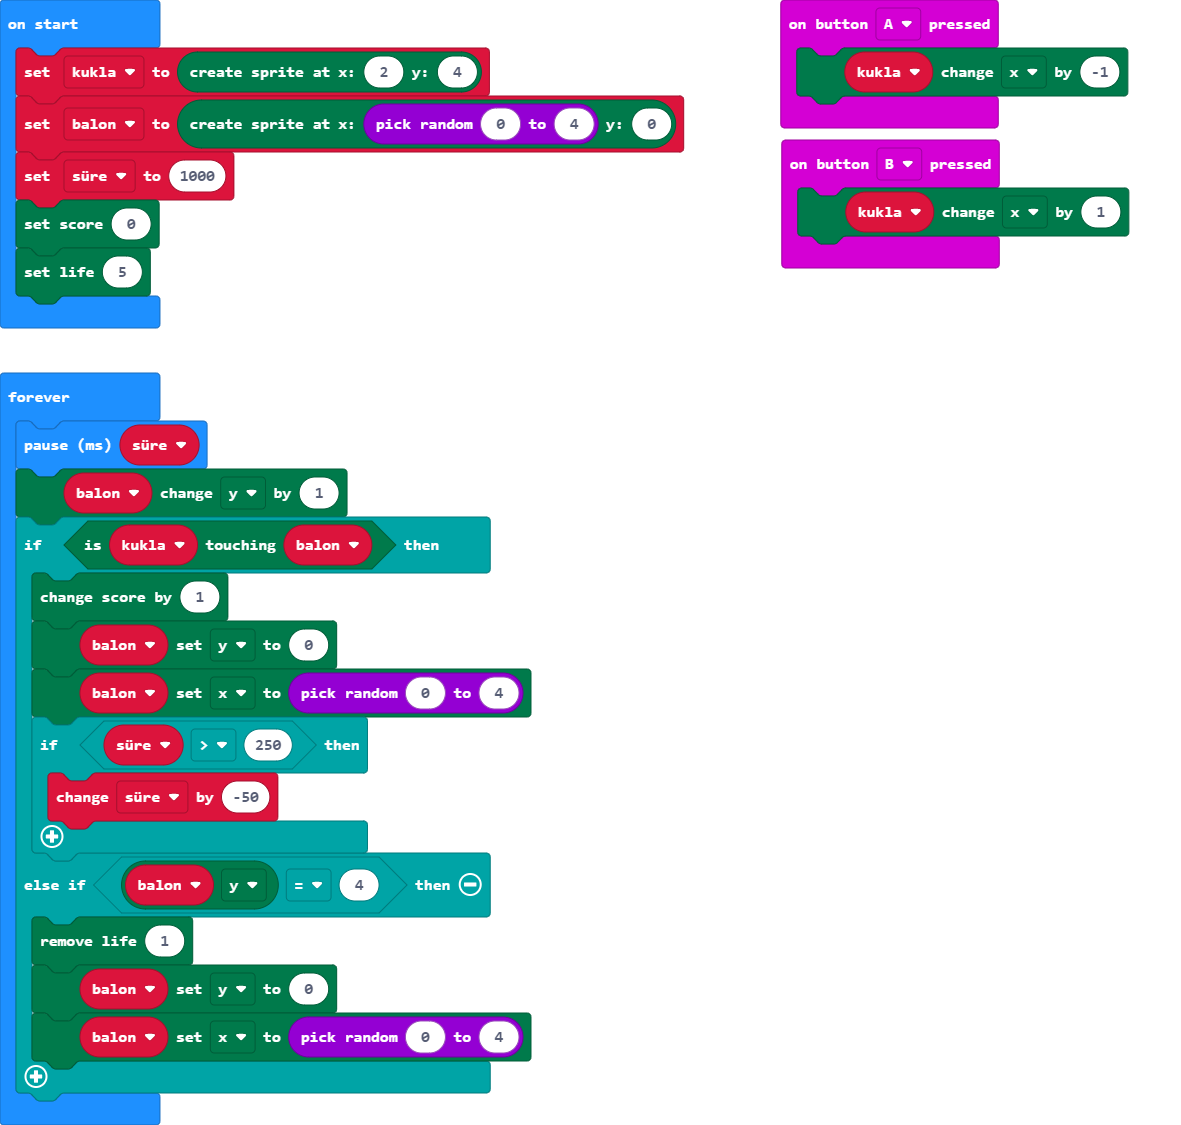
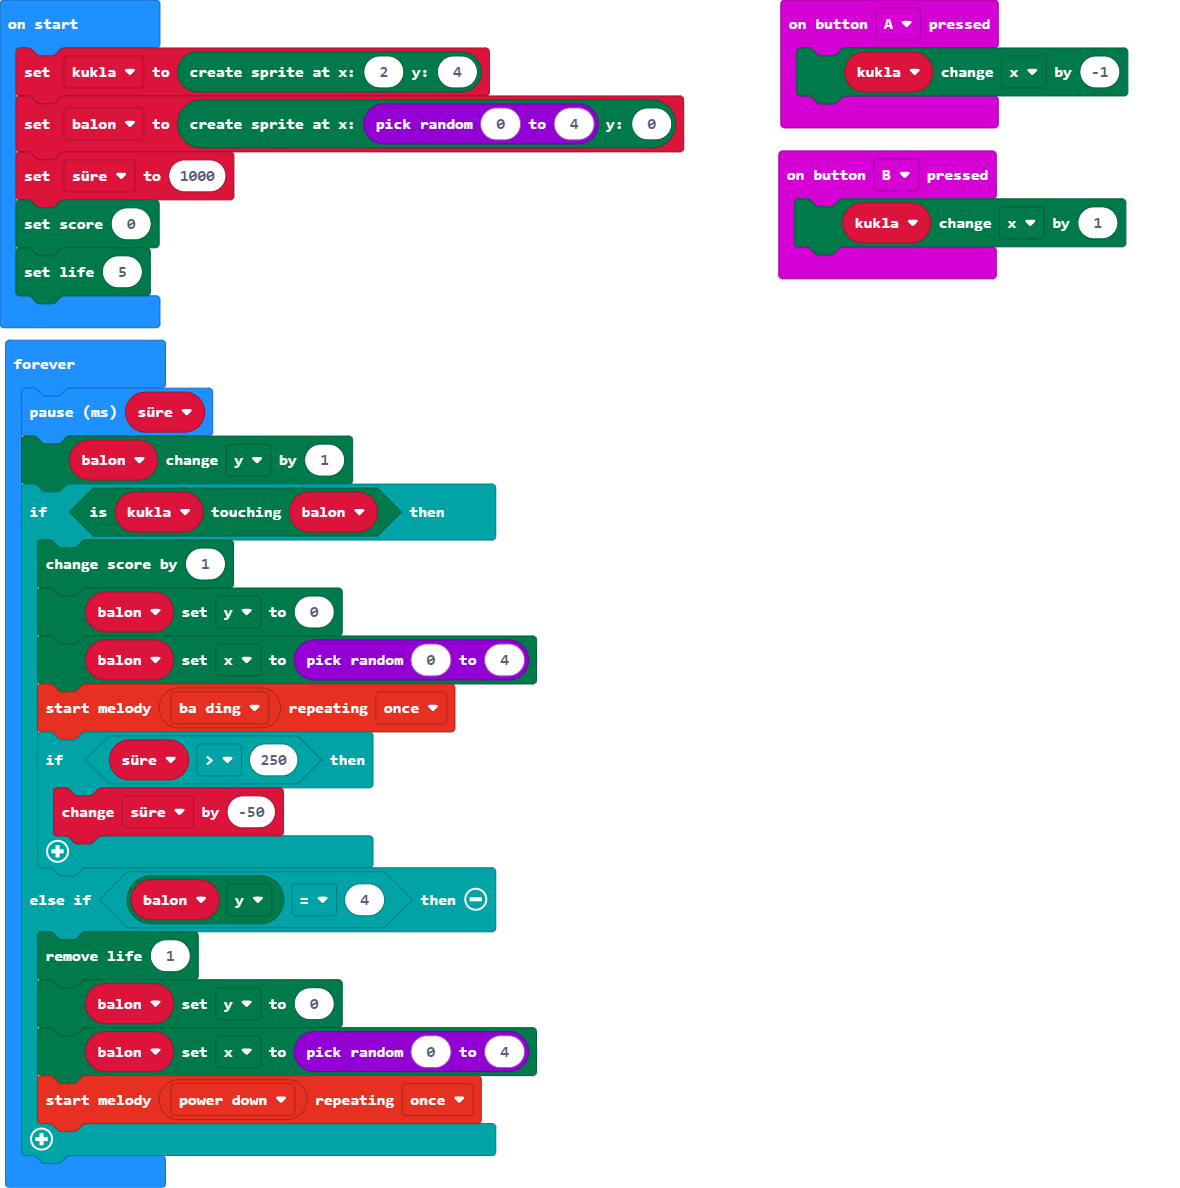
Update pxt.json, main.blocks, main.ts

Changed region(s): [[0.0, 0.0, 0.5797, 1.0], [0.6407, 0.0, 0.9763, 0.2489]]

diff --git a/main.ts b/main.ts
@@ -17,6 +17,7 @@ basic.forever(function () {
         game.addScore(1)
         balon.set(LedSpriteProperty.Y, 0)
         balon.set(LedSpriteProperty.X, randint(0, 4))
+        music.startMelody(music.builtInMelody(Melodies.BaDing), MelodyOptions.Once)
         if (süre > 250) {
             süre += -50
         }
@@ -24,5 +25,6 @@ basic.forever(function () {
         game.removeLife(1)
         balon.set(LedSpriteProperty.Y, 0)
         balon.set(LedSpriteProperty.X, randint(0, 4))
+        music.startMelody(music.builtInMelody(Melodies.PowerDown), MelodyOptions.Once)
     }
 })
